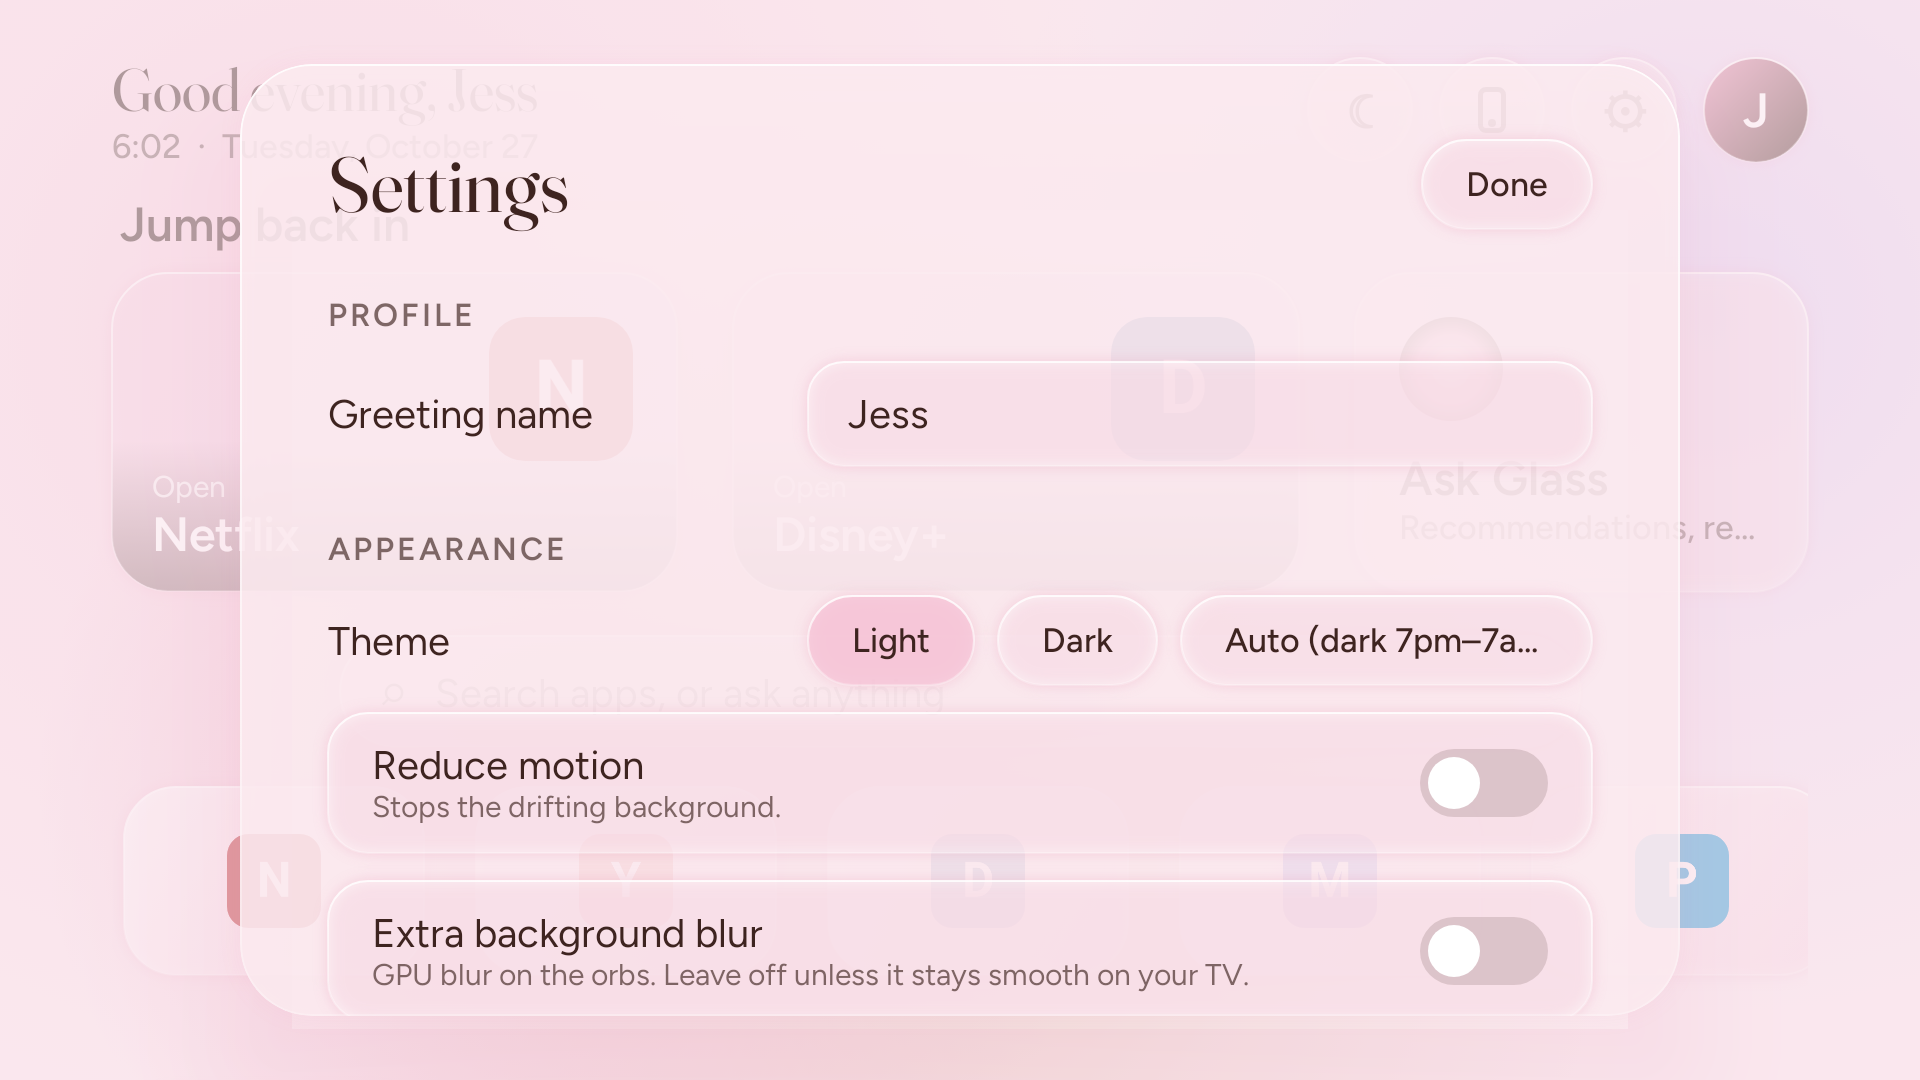
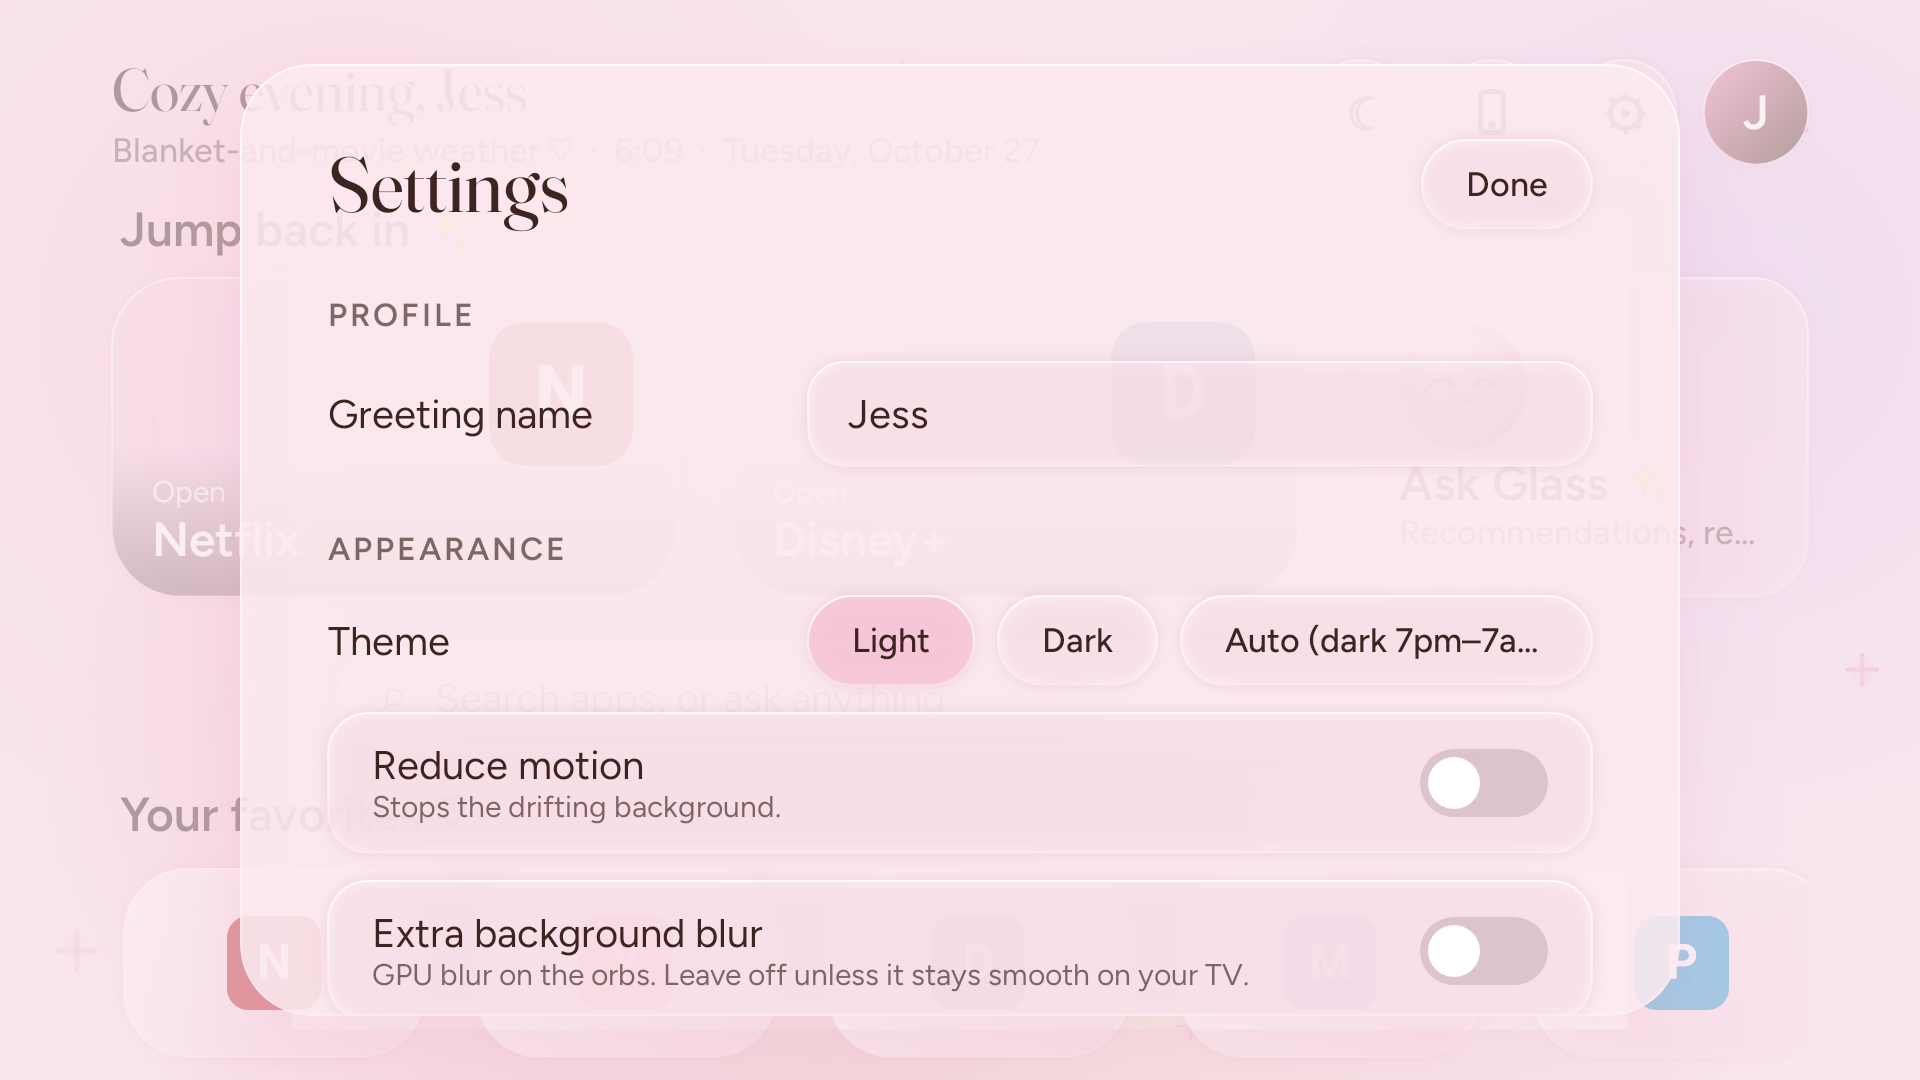
Cuter, cozier home: kawaii assistant orb, twinkling sparkles, cozy greetings
- CuteOrb: glossy pink assistant with happy eyes and blush (home card + panel)
- Background sparkles, animated in the draw phase only; still with reduce motion
- Time-of-day cozy greeting and mood line; rounder tiles; 'Your favorites' header
- Screenshot test accepts -PpreviewIcons=<dir> of <package>.png for realistic
  local previews (brand icons are never committed; on device the installed
  apps provide them)

Claude-Session: https://claude.ai/code/session_01TrDrfaGBXmhcSbtgf3129r

diff --git a/app/src/main/java/dev/glasstv/launcher/ui/screens/LauncherRoot.kt b/app/src/main/java/dev/glasstv/launcher/ui/screens/LauncherRoot.kt
@@ -228,7 +228,7 @@ private fun HomeScreen(
         Spacer(Modifier.height(14.dp))
 
         if (query.isBlank()) {
-            SectionHeader(if (recent.isNotEmpty()) "Jump back in" else "Up next")
+            SectionHeader(if (recent.isNotEmpty()) "Jump back in ✨" else "Pick up where you like")
             Row(Modifier.fillMaxWidth().padding(top = 10.dp, bottom = 6.dp), horizontalArrangement = Arrangement.spacedBy(28.dp)) {
                 hero.forEachIndexed { i, a ->
                     HeroCard(app, a, Modifier.weight(1f), focus = if (i == 0) firstFocus else null)
@@ -252,6 +252,8 @@ private fun HomeScreen(
                 GlassType.body, Modifier.padding(12.dp), color = LocalGlass.current.textSoft,
             ) else AppRow(app, results, null, ::togglePin)
         } else {
+            Spacer(Modifier.height(6.dp))
+            SectionHeader(if (pinned.isNotEmpty()) "Your favorites ♡" else "Your apps")
             AppRow(app, if (pinned.isNotEmpty()) pinned else others.take(10), if (hero.isEmpty()) firstFocus else null, ::togglePin)
             val rest = if (pinned.isNotEmpty()) others else others.drop(10)
             rest.chunked(6).forEach { AppRow(app, it, null, ::togglePin) }
@@ -288,7 +290,7 @@ private fun HeroCard(app: GlassApp, tvApp: TvApp, modifier: Modifier, focus: Foc
     GlassButton(
         onClick = { app.appRepo.launch(tvApp) },
         modifier = modifier.aspectRatio(16f / 9f).then(if (focus != null) Modifier.focusRequester(focus) else Modifier),
-        shape = RoundedCornerShape(28.dp),
+        shape = RoundedCornerShape(34.dp),
         focusScale = 1.05f,
     ) {
         val a = art
@@ -327,9 +329,9 @@ private fun AssistantCard(app: GlassApp, ui: LauncherUi, modifier: Modifier) {
         focusScale = 1.05f,
     ) {
         Column(Modifier.fillMaxSize().padding(22.dp), verticalArrangement = Arrangement.SpaceBetween) {
-            Box(Modifier.size(52.dp).background(Brush.radialGradient(listOf(Color.White, c.pink, c.rose, c.cocoa)), CircleShape))
+            dev.glasstv.launcher.ui.components.CuteOrb(64.dp)
             Column {
-                GlassText("Ask Glass", GlassType.title)
+                GlassText("Ask Glass ✨", GlassType.title)
                 GlassText("Recommendations, recaps, or just say “open Netflix”", GlassType.label, color = c.textSoft, maxLines = 3)
             }
         }
@@ -339,7 +341,13 @@ private fun AssistantCard(app: GlassApp, ui: LauncherUi, modifier: Modifier) {
 @Composable
 private fun TopBar(settings: Settings, now: LocalDateTime, ui: LauncherUi) {
     val c = LocalGlass.current
-    val greeting = when (now.hour) { in 5..11 -> "Good morning"; in 12..16 -> "Good afternoon"; in 17..21 -> "Good evening"; else -> "Good night" }
+    val greeting = when (now.hour) { in 5..11 -> "Good morning"; in 12..16 -> "Hi there"; in 17..21 -> "Cozy evening"; else -> "Sweet dreams soon" }
+    val mood = when (now.hour) {
+        in 5..11 -> "Coffee and cartoons? ☕"
+        in 12..16 -> "A little treat of a show? ♡"
+        in 17..21 -> "Blanket-and-movie weather ♡"
+        else -> "One more episode, then bed ☾"
+    }
     val weather = rememberWeather(settings)
     Row(Modifier.fillMaxWidth(), verticalAlignment = Alignment.CenterVertically) {
         Column(Modifier.weight(1f)) {
@@ -349,6 +357,7 @@ private fun TopBar(settings: Settings, now: LocalDateTime, ui: LauncherUi) {
             )
             GlassText(
                 listOfNotNull(
+                    mood,
                     now.format(DateTimeFormatter.ofPattern("h:mm")),
                     now.format(DateTimeFormatter.ofPattern("EEEE, MMMM d")),
                     weather?.let { "${it.glyph} ${it.temp}°" },
@@ -428,17 +437,17 @@ private fun AppTile(app: GlassApp, tvApp: TvApp, modifier: Modifier, onLongClick
             modifier = Modifier.fillMaxWidth().aspectRatio(16f / 10f)
                 .then(if (focus != null) Modifier.focusRequester(focus) else Modifier)
                 .onFocusChanged { focused = it.isFocused },
-            shape = RoundedCornerShape(26.dp),
+            shape = RoundedCornerShape(32.dp),
             focusScale = 1.10f,
         ) {
             val a = art
             when {
                 a != null && a.isBanner -> Image(
-                    a.image, tvApp.label, Modifier.fillMaxSize().clip(RoundedCornerShape(26.dp)), contentScale = ContentScale.Crop,
+                    a.image, tvApp.label, Modifier.fillMaxSize().clip(RoundedCornerShape(32.dp)), contentScale = ContentScale.Crop,
                 )
                 else -> Box(
                     Modifier.fillMaxSize().background(
-                        Brush.linearGradient(listOf(c.glassFillFocused, c.pink.copy(alpha = 0.35f))), RoundedCornerShape(26.dp),
+                        Brush.linearGradient(listOf(c.glassFillFocused, c.pink.copy(alpha = 0.35f))), RoundedCornerShape(32.dp),
                     ),
                     contentAlignment = Alignment.Center,
                 ) {

diff --git a/app/src/main/java/dev/glasstv/launcher/ui/components/CuteOrb.kt b/app/src/main/java/dev/glasstv/launcher/ui/components/CuteOrb.kt
@@ -1,0 +1,44 @@
+package dev.glasstv.launcher.ui.components
+
+import androidx.compose.foundation.Canvas
+import androidx.compose.foundation.layout.size
+import androidx.compose.runtime.Composable
+import androidx.compose.ui.Modifier
+import androidx.compose.ui.geometry.Offset
+import androidx.compose.ui.geometry.Size
+import androidx.compose.ui.graphics.Brush
+import androidx.compose.ui.graphics.Color
+import androidx.compose.ui.graphics.StrokeCap
+import androidx.compose.ui.graphics.drawscope.Stroke
+import androidx.compose.ui.unit.Dp
+import androidx.compose.ui.unit.dp
+import dev.glasstv.launcher.ui.theme.LocalGlass
+
+/** The assistant's face: a glossy pink orb with sleepy happy eyes and blush cheeks. */
+@Composable
+fun CuteOrb(size: Dp, modifier: Modifier = Modifier) {
+    val c = LocalGlass.current
+    Canvas(modifier.size(size)) {
+        val r = this.size.minDimension / 2
+        val ctr = Offset(r, r)
+        drawCircle(
+            Brush.radialGradient(listOf(Color.White, c.pink, c.rose, c.cocoa.copy(alpha = 0.9f)), center = Offset(r * 0.7f, r * 0.6f), radius = r * 1.5f),
+            r, ctr,
+        )
+        val eyeY = r * 1.02f
+        val ink = c.cocoa
+        val w = r * 0.09f
+        // ^ ^ closed happy eyes (arcs)
+        listOf(r * 0.66f, r * 1.34f).forEach { x ->
+            drawArc(ink, 200f, 140f, false, Offset(x - r * 0.16f, eyeY - r * 0.12f), Size(r * 0.32f, r * 0.26f), style = Stroke(w, cap = StrokeCap.Round))
+        }
+        // blush
+        listOf(r * 0.48f, r * 1.52f).forEach { x ->
+            drawOval(c.rose.copy(alpha = 0.55f), Offset(x - r * 0.13f, eyeY + r * 0.16f), Size(r * 0.26f, r * 0.14f))
+        }
+        // tiny smile
+        drawArc(ink, 20f, 140f, false, Offset(r - r * 0.12f, eyeY + r * 0.08f), Size(r * 0.24f, r * 0.18f), style = Stroke(w * 0.9f, cap = StrokeCap.Round))
+        // gloss
+        drawCircle(Color.White.copy(alpha = 0.7f), r * 0.12f, Offset(r * 0.62f, r * 0.5f))
+    }
+}

diff --git a/app/src/main/java/dev/glasstv/launcher/ui/components/Orbs.kt b/app/src/main/java/dev/glasstv/launcher/ui/components/Orbs.kt
@@ -26,6 +26,15 @@ import kotlin.math.sin
 
 private class Orb(val x: Float, val y: Float, val r: Float, val dx: Float, val dy: Float, val speed: Int, val phase: Float)
 
+private class Sparkle(val x: Float, val y: Float, val size: Float, val speed: Int, val phase: Float)
+
+private val sparkles = listOf(
+    Sparkle(0.08f, 0.40f, 0.0045f, 7, 0.0f), Sparkle(0.93f, 0.12f, 0.0055f, 5, 0.3f),
+    Sparkle(0.47f, 0.07f, 0.0035f, 9, 0.6f), Sparkle(0.97f, 0.62f, 0.0040f, 6, 0.15f),
+    Sparkle(0.04f, 0.88f, 0.0050f, 8, 0.8f), Sparkle(0.62f, 0.95f, 0.0035f, 7, 0.45f),
+    Sparkle(0.80f, 0.40f, 0.0030f, 10, 0.7f),
+)
+
 private val orbs = listOf(
     Orb(0.18f, 0.22f, 0.42f, 0.10f, 0.08f, 1, 0.00f), // pink
     Orb(0.82f, 0.30f, 0.38f, 0.08f, 0.10f, 1, 0.33f), // lilac
@@ -79,6 +88,16 @@ fun OrbBackground(reduceMotion: Boolean, extraBlur: Boolean, modifier: Modifier 
                 ),
                 radius = radius, center = center,
             )
+        }
+        // Tiny twinkling sparkles: soft four-point stars, each pulsing on its own phase.
+        sparkles.forEach { s ->
+            val tw = if (reduceMotion) 0.7f else 0.35f + 0.65f * (0.5f + 0.5f * sin(2f * PI.toFloat() * (time * s.speed + s.phase)))
+            val p = Offset(s.x * size.width, s.y * size.height)
+            val len = s.size * dim * 1.9f
+            val col = (if (c.isDark) Color.White else c.rose).copy(alpha = (if (c.isDark) 0.75f else 0.8f) * tw)
+            drawLine(col, Offset(p.x - len, p.y), Offset(p.x + len, p.y), strokeWidth = len * 0.28f, cap = androidx.compose.ui.graphics.StrokeCap.Round)
+            drawLine(col, Offset(p.x, p.y - len), Offset(p.x, p.y + len), strokeWidth = len * 0.28f, cap = androidx.compose.ui.graphics.StrokeCap.Round)
+            drawCircle(c.pink.copy(alpha = 0.5f * tw), len * 0.9f, p)
         }
     }
 }

diff --git a/app/src/test/java/dev/glasstv/launcher/TvScreensTest.kt b/app/src/test/java/dev/glasstv/launcher/TvScreensTest.kt
@@ -101,7 +101,9 @@ class TvScreensTest {
             spm.addIntentFilterForActivity(comp, IntentFilter(Intent.ACTION_MAIN).apply { addCategory(Intent.CATEGORY_LEANBACK_LAUNCHER) })
             val act = ActivityInfo().apply { packageName = pkg; name = comp.className; applicationInfo = ai; nonLocalizedLabel = label; exported = true; enabled = true }
             spm.addOrUpdateActivity(act)
-            val icon = BitmapDrawable(ctx.resources, placeholderIcon(label, color))
+            val real = System.getProperty("tvscreens.icons")?.let { java.io.File(it, "$pkg.png") }?.takeIf { it.exists() }
+                ?.let { android.graphics.BitmapFactory.decodeFile(it.path) }
+            val icon = BitmapDrawable(ctx.resources, real ?: placeholderIcon(label, color))
             spm.setApplicationIcon(pkg, icon)
             spm.addActivityIcon(comp, icon)
         }

diff --git a/app/src/main/java/dev/glasstv/launcher/ui/screens/AiPanel.kt b/app/src/main/java/dev/glasstv/launcher/ui/screens/AiPanel.kt
@@ -84,7 +84,7 @@ fun AiPanel(app: GlassApp, onClose: () -> Unit) {
             .focusGroup(),
     ) {
         Row(verticalAlignment = Alignment.CenterVertically) {
-            Box(Modifier.size(36.dp).background(Brush.radialGradient(listOf(Color.White, c.pink, c.rose, c.cocoa)), CircleShape))
+            dev.glasstv.launcher.ui.components.CuteOrb(44.dp)
             Spacer(Modifier.width(14.dp))
             GlassText("Assistant", GlassType.greeting, Modifier.weight(1f))
             if (state.messages.isNotEmpty()) PillButton("Clear", { app.assistant.clear() })
